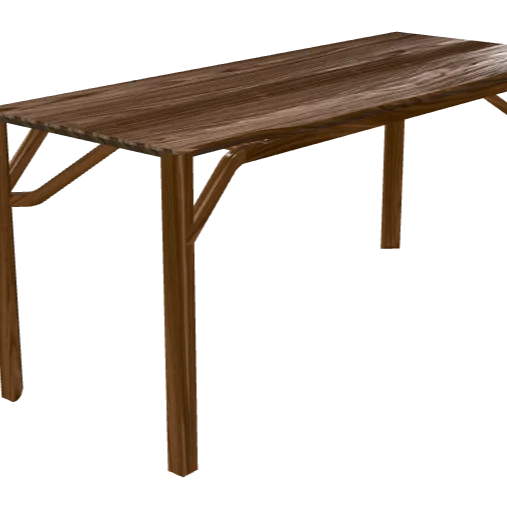
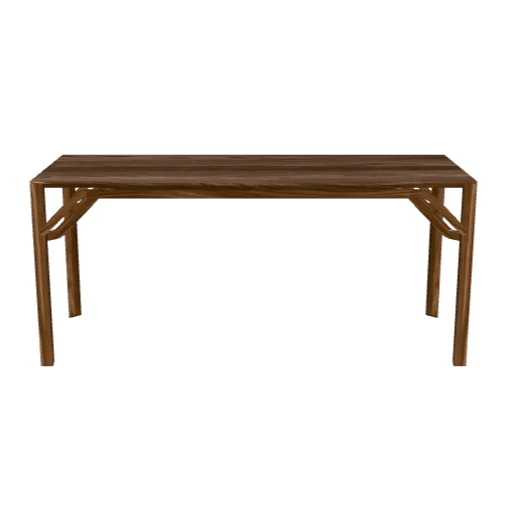
Add files via upload

diff --git a/index.html b/index.html
@@ -1,22 +1,16 @@
-<!DOCTYPE html>
-<html>
-<head>
-    <meta charset="UTF-8">
-    <script type="module" src="https://ajax.googleapis.com/ajax/libs/model-viewer/3.5.0/model-viewer.min.js"></script>
-</head>
-<body>
-    <model-viewer 
-        src="Heraclite-E-1700.glb" 
-        camera-controls 
-        auto-rotate 
-        style="width: 100%; height: 100vh;">
-    </model-viewer>
-    <script>
-  const modelViewer = document.querySelector("model-viewer");
-  modelViewer.addEventListener("load", () => {
-    const material = modelViewer.model.materials[0]; // Ajustez l'index [0] selon votre meuble
-    material.normalTexture.setTexture(null);
-  });
-</script>
-</body>
+<!doctype html>
+<html lang="en">
+  <head>
+    <title>&lt;model-viewer&gt; template</title>
+    <meta charset="utf-8">
+    <meta name="description" content="&lt;model-viewer&gt; template">
+    <meta name="viewport" content="width=device-width, initial-scale=1">
+    <link type="text/css" href="./styles.css" rel="stylesheet"/>
+  </head>
+  <body>
+    <!-- <model-viewer> HTML element -->
+    <model-viewer src="Heraclite-E-1700.glb" ar ar-modes="webxr scene-viewer quick-look" camera-controls tone-mapping="neutral" poster="poster.webp" shadow-intensity="2" exposure="0.8" environment-image="legacy"> </model-viewer>
+    <!-- Loads <model-viewer> for browsers: -->
+    <script type="module" src="https://ajax.googleapis.com/ajax/libs/model-viewer/{{MODELVIEWER_VERSION}}/model-viewer.min.js"></script>
+  </body>
 </html>
